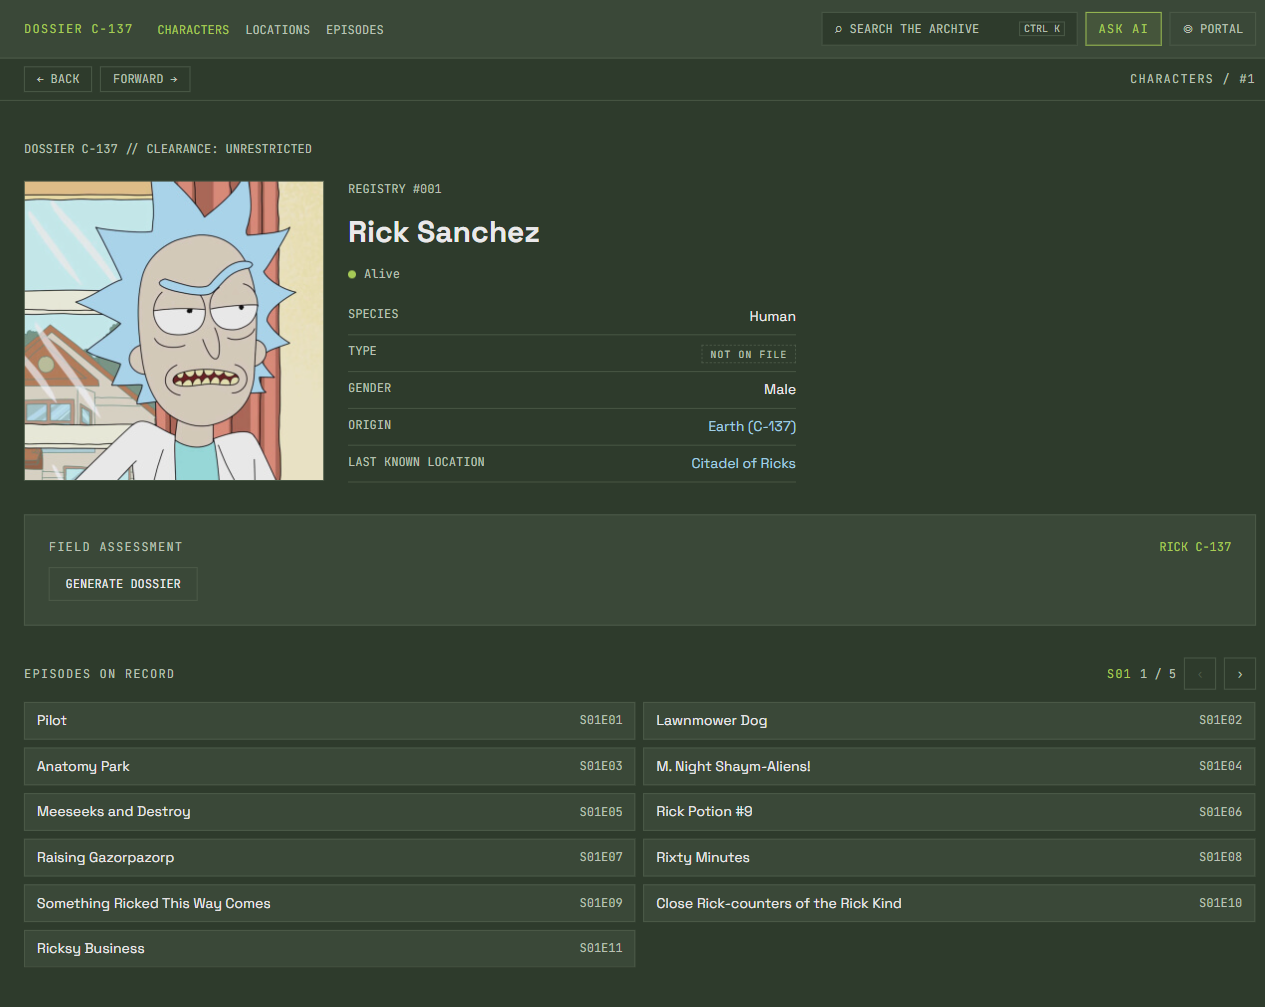
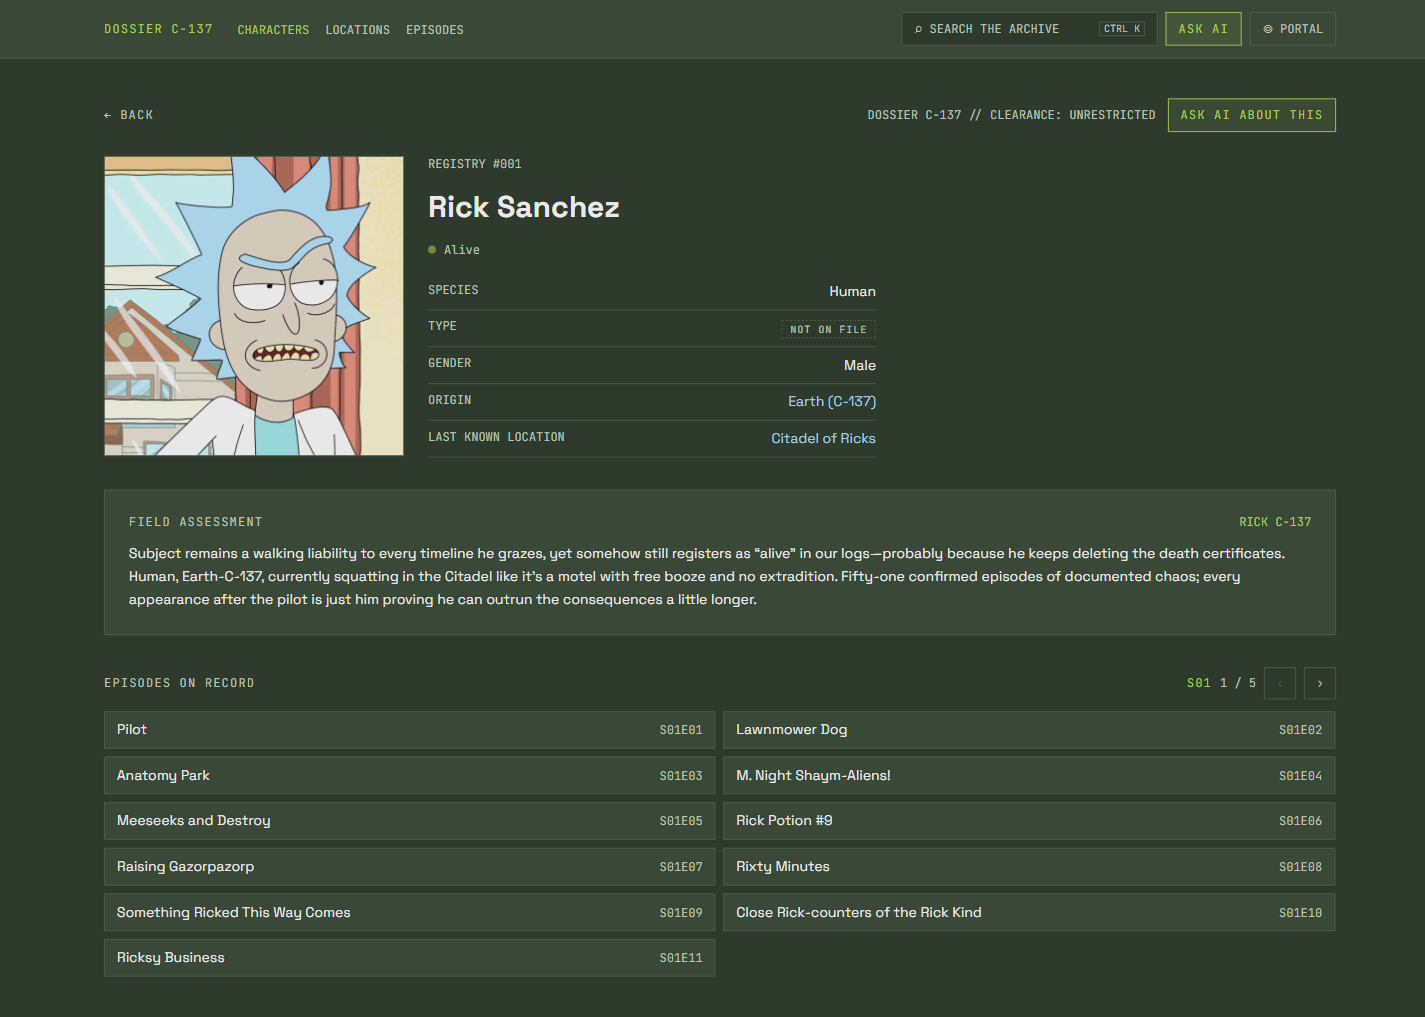
docs: refresh the README and every screenshot against the shipped site
The screenshots predated the second AI pass, so they still showed the history
bar and the old chat. All five are retaken against the live deployment: the
dossier with its generated assessment and the season roll, the chat opened from
a dossier with its focus banner and voice switch, and the Citadel dimension on
the character list rather than the hub.

The prose follows the same pass: the navigation bullet describes the back link
inside each dossier header, the chat bullets cover inline [#47] citations,
follow-up buttons, ?focus= and the persisted transcript, and the test counts are
what the suites actually report — 307 frontend, 168 backend.

Two test-suite repairs came out of running them: the router stubs missed the
`citable` field the AskEvent type now requires, and `parseSuggestions` kept
four-character follow-ups its own test expects it to drop.

Claude-Session: https://claude.ai/code/session_01PKe7cBegkrjSoKVLbCTrNn

diff --git a/supabase/functions/api/tests/router_test.ts b/supabase/functions/api/tests/router_test.ts
@@ -122,7 +122,7 @@ function services(overrides: Partial<StubServices> = {}): StubServices {
     },
     ask: {
       ask: async function* () {
-        yield { type: 'sources' as const, sources: [] }
+        yield { type: 'sources' as const, sources: [], citable: [] }
       },
     },
     quota: {
@@ -453,6 +453,7 @@ Deno.test('streams an ask response as Server-Sent Events', async () => {
         yield {
           type: 'sources' as const,
           sources: [{ type: 'character' as const, id: 1, name: 'Rick Sanchez' }],
+          citable: [{ type: 'character' as const, id: 1, name: 'Rick Sanchez' }],
         }
         yield { type: 'token' as const, text: 'Wubba' }
       },

diff --git a/supabase/functions/api/services/ask.ts b/supabase/functions/api/services/ask.ts
@@ -88,7 +88,7 @@ export function parseSuggestions(tail: string): string[] {
   return tail
     .split('|')
     .map((part) => part.replace(/^[\s\-*\d.)]+/, '').trim())
-    .filter((part) => part.length > 3 && part.length <= 80)
+    .filter((part) => part.length > 4 && part.length <= 80)
     .slice(0, MAX_SUGGESTIONS)
 }
 

diff --git a/README.md b/README.md
@@ -12,10 +12,10 @@ records.
 
 | | |
 |---|---|
-| ![A character dossier with a generated field assessment](docs/screenshots/character-dossier.png) | ![The search overlay, all three entity types at once](docs/screenshots/search-overlay.png) |
-| A character dossier, with the AI field assessment at the bottom | The `⌘K` overlay, searching all three entity types at once |
-| ![The grounded chat, with its sources](docs/screenshots/grounded-chat.png) | ![The Citadel dimension](docs/screenshots/citadel-dimension.png) |
-| The grounded chat: the answer, then what it stands on | The `Citadel` dimension — one light, two dark |
+| ![A character dossier with its generated field assessment](docs/screenshots/character-dossier.png) | ![The search overlay, all three entity types at once](docs/screenshots/search-overlay.png) |
+| A character dossier: the record, the generated field assessment, and the episode roll by season | The `⌘K` overlay, searching all three entity types at once |
+| ![The chat, focused on the open dossier](docs/screenshots/grounded-chat.png) | ![The Citadel dimension on the character list](docs/screenshots/citadel-dimension.png) |
+| The chat, opened from Rick's dossier: it answers about that record, in the voice you pick | The `Citadel` dimension, on the character list — one light, two dark |
 
 ## What it does
 
@@ -24,8 +24,11 @@ records.
 - **Search across all three entity types at once**, from `⌘K` / `Ctrl+K`, from the header field, or from the hub.
 - **Long rolls are paged, not dumped.** Fifty-one episodes on a dossier become one slide per season, and a hundred residents become pages of eight — arrows on a desktop, an ordinary swipe on a phone, because the track is a real scroll container with snap points.
 - **Episodes filter by season** from a chip row, on top of the title and code fields.
-- **In-page back and forward**, plus a trail of where you are, so moving sideways through the archive does not depend on the browser chrome. Every route change starts at the top of the page.
-- **A grounded AI chat.** Ask a question in English; the server retrieves real records first and hands the model those records as its only permitted source of facts. The sources are shown, and they are clickable.
+- **A back link inside each dossier's own header**, so moving sideways through the archive does not depend on the browser chrome. Every route change starts at the top of the page.
+- **A grounded AI chat.** Ask a question in English; the server retrieves real records first and hands the model those records as its authority on the figures. The sources are shown, and they are clickable — the answer cites them inline as `[#47]`, and a number becomes a link only if this answer actually retrieved that record.
+- **Every answer closes on three follow-up questions**, rendered as buttons, so a question that went nowhere still offers a way on.
+- **`ASK AI ABOUT THIS` carries the open dossier into the chat**, as `?focus=`, and the server resolves that record in full — a character's episodes, a location's residents — ahead of anything search found.
+- **The transcript survives a reload**, through `sessionStorage`, with a wipe button; each answer keeps the voice that wrote it.
 - **A generated field assessment on every character**, in the voice you chose, written once and stored forever.
 - **Three dimensions instead of two themes** — `C-137` (dark), `Citadel` (light), `Cronenberg-1` (dark) — persisted, and applied before first paint so a light-theme visitor never sees a dark flash.
 - **The portal transition is the loading indicator.** It lasts exactly as long as the request behind it, as a small badge over a blurred scrim rather than a full-screen takeover.
@@ -142,11 +145,14 @@ and an 8 s ceiling so it never hangs. A request that outlives 1.5 s raises a
 quote. There is no animation library: CSS keyframes hang off a `data-phase`
 attribute and the vortex is a canvas.
 
-**The AI is grounded, not asked nicely.** `/api/ask` searches the literal
-question first, widens to extracted terms only if that found nothing, caps at six
-records, and hands the model a `CONTEXT` block as its only permitted knowledge.
-When nothing matched, the context says so rather than being omitted. Ask it about
-Gandalf and it invents nobody — and shows you it had no sources.
+**The AI is grounded, not asked nicely.** `/api/ask` resolves the focused record
+in full when the question came from a dossier, otherwise it searches the literal
+question and widens to extracted terms only if that found nothing, caps at six
+records, and hands the model a `CONTEXT` block as its authority on every figure.
+The archive is the authority on the numbers, not the boundary of the subject: a
+thin record is no longer a reason to refuse a question about the show. Citations
+come back as `[#47]` and are rendered as links, but a number becomes a link only
+if this answer actually retrieved that record.
 
 **Dossiers are permanent and versioned.** The primary key includes the persona
 and a prompt version, so rewording a prompt writes new rows beside the old ones
@@ -196,15 +202,15 @@ into something automatically verified rather than a matter of trust.
 
 ## Testing
 
-445 tests: 289 on the frontend under Vitest with React Testing Library and MSW,
-156 on the backend under Deno test against stubbed clients. Both suites, the
+475 tests: 307 on the frontend under Vitest with React Testing Library and MSW,
+168 on the backend under Deno test against stubbed clients. Both suites, the
 build and the lint pass on `main` as published — `npm run lint` reports 0 errors
-and 13 `react-refresh/only-export-components` warnings, all of them on filter
-components that export a constant beside the component.
+and 15 `react-refresh/only-export-components` warnings, all of them on files that
+export a constant beside the component.
 
 Effort concentrates on branching logic rather than markup: filter parsing, cache
 keys, relation expansion, the portal state machine, season grouping and the
-carousel pager, in-page history, retrieval and grounding, quota accounting, and
+carousel pager, the follow-up parser, retrieval and grounding, quota accounting, and
 the contrast grid. `npm test` does not type-check — Vitest
 transpiles without checking — so `npm run build` is part of every verification.
 
